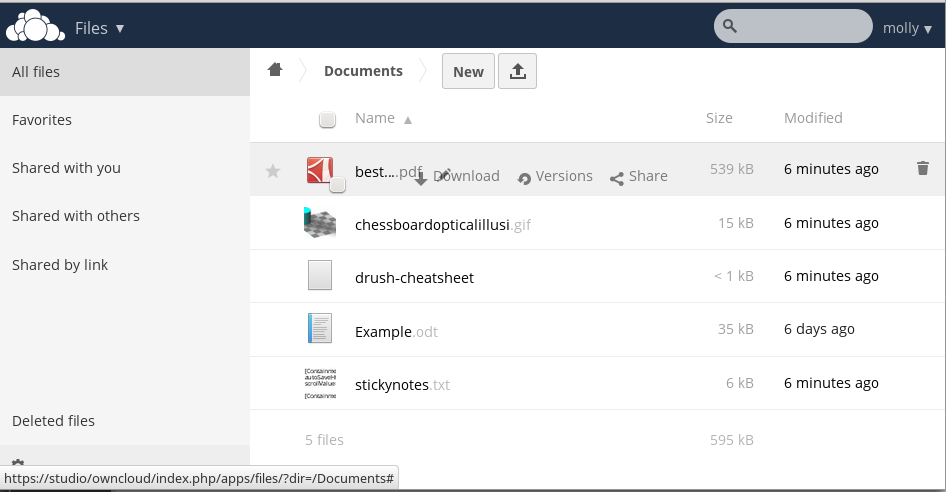
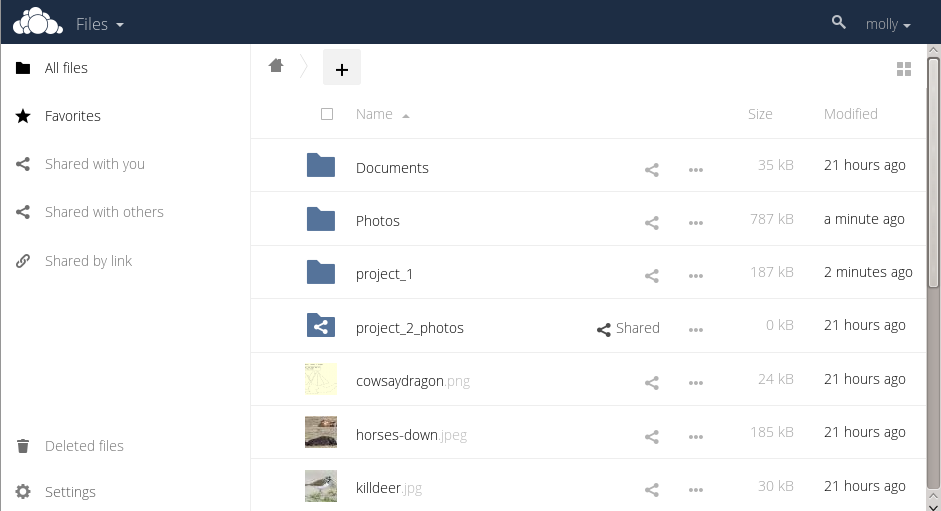
update screenshot with most recent oC version
Conflicts:
	user_manual/files/access_webgui.rst
	user_manual/images/oc_main_web_labelled.png

diff --git a/user_manual/files/access_webgui.rst b/user_manual/files/access_webgui.rst
@@ -7,7 +7,9 @@ preview, edit, delete, share, and re-share files. Your ownCloud administrator
 has the option to disable these features, so if any of them are missing on your 
 system ask your server administrator.
 
-.. figure:: ../images/users-files.png
+.. figure:: ../images/oc_main_web_labelled.png
+   :scale: 75%
+   :alt: The Files view screen.
    
 ownCloud can display thumbnail previews for image files, MP3 covers, 
 and text files, if this enabled by your server administrator. Hover your cursor 
